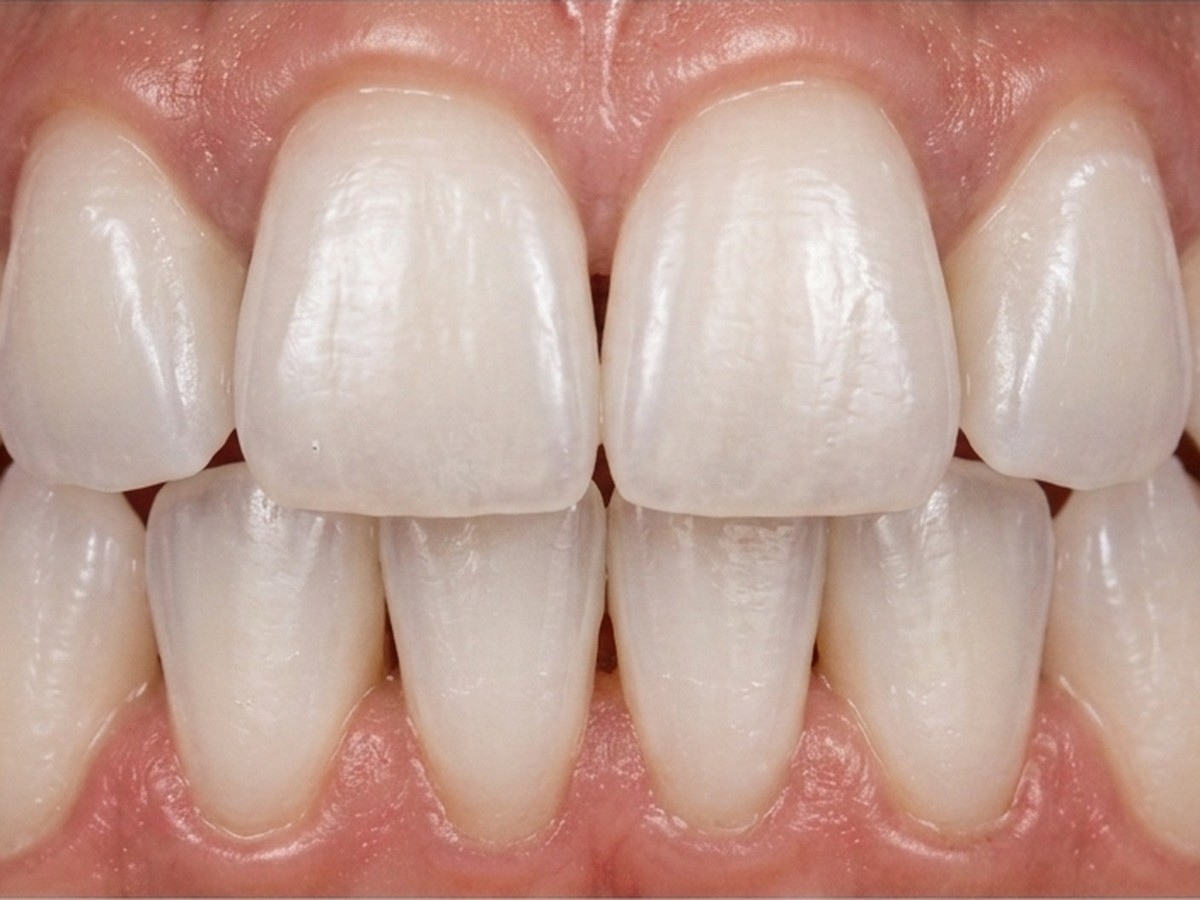
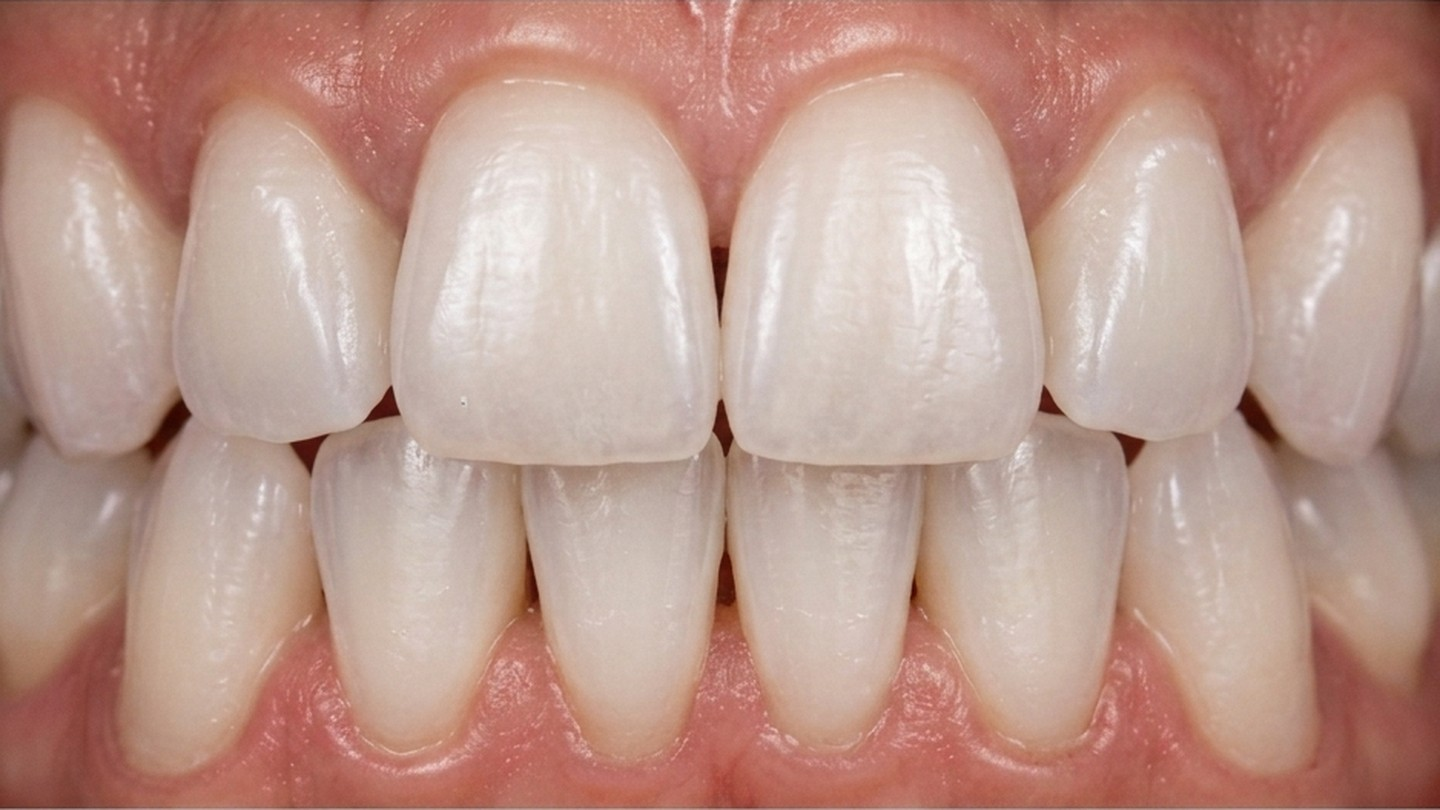
Wider 16:9 gallery crop

diff --git a/src/components/Showcase.tsx b/src/components/Showcase.tsx
@@ -41,7 +41,7 @@ function BeforeAfter({ item, delay }: { item: GalleryCase; delay: number }) {
         {/* Compare surface */}
         <div
           ref={wrapRef}
-          className="relative aspect-[4/3] select-none touch-none cursor-ew-resize overflow-hidden bg-foam"
+          className="relative aspect-[16/9] select-none touch-none cursor-ew-resize overflow-hidden bg-foam"
           onPointerDown={onPointerDown}
           onPointerMove={onPointerMove}
           onPointerUp={stop}
